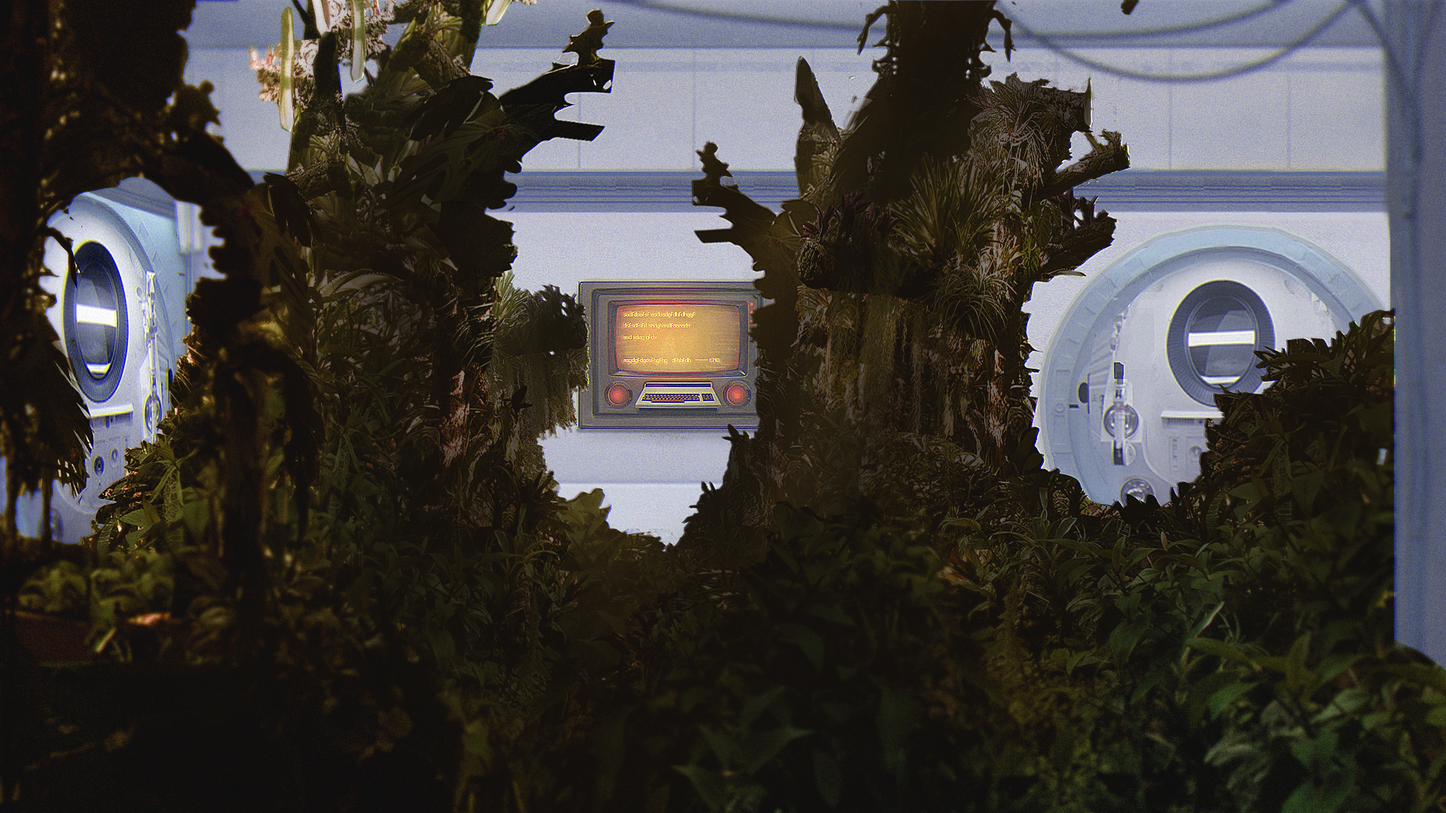
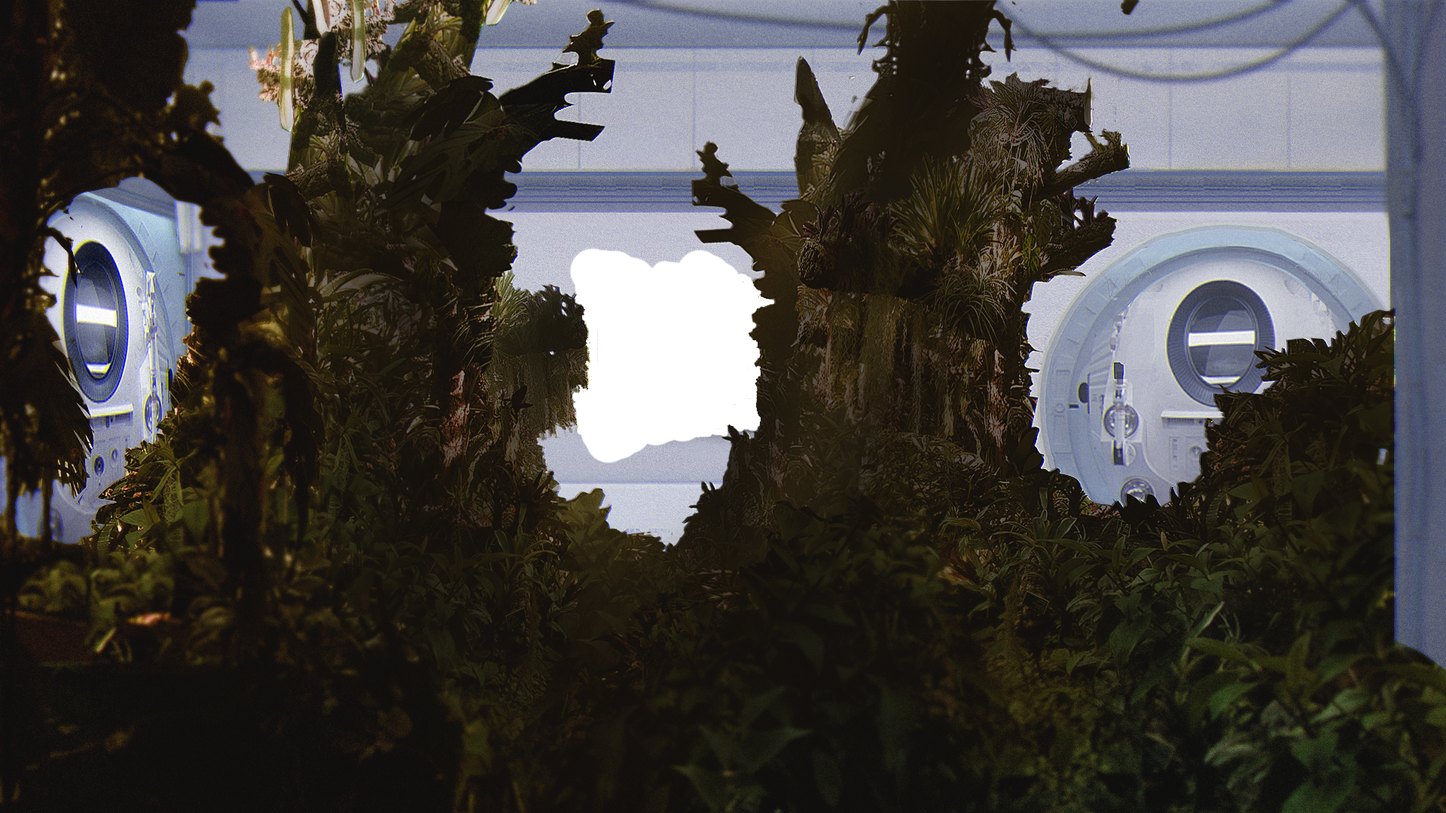
Move ship at end.

Changed region(s): [[0.375, 0.3056, 0.5312, 0.5806]]

diff --git a/Assets/Terminal/GreenhouseTerminal.cs b/Assets/Terminal/GreenhouseTerminal.cs
@@ -46,7 +46,11 @@ the instant temperature fall.", new List<ScreenAction> {
                     return new ScreenInfo(
                         "Greenhouse Computer\n" +
                         "-------------------\n\n" +
-                        "Warning, flames detected in this room.\n",
+                        @"Warning, flames detected in this room.
+Recommended course of action is to vent the
+atmosphere from the room, removing the oxygen
+feeding the fire. This will also kill any
+living entities in here.",
 
                         new List<ScreenAction>
                         {

diff --git a/Assets/EndMover.cs b/Assets/EndMover.cs
@@ -1,0 +1,15 @@
+using UnityEngine;
+using System.Collections;
+
+public class EndMover : MonoBehaviour
+{
+    public float Speed = 0.1f;
+	
+	// Update is called once per frame
+	void Update () {
+    if (WorldState.HasHappened(WorldEvent.PlottedForEarth) || WorldState.HasHappened(WorldEvent.PlottedForEuropa))
+        {
+            transform.Translate(Time.deltaTime * Speed, Time.deltaTime * Speed * 0.7f, 0);
+        }
+	}
+}
